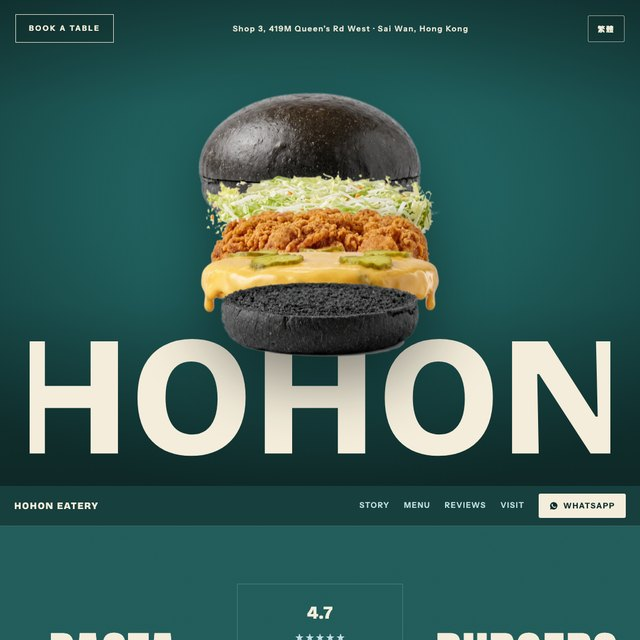
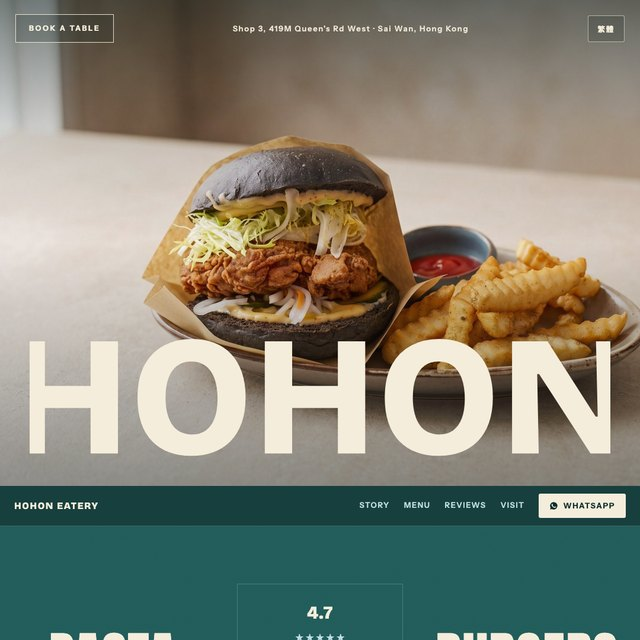
web-design: HoHon tile back to the approved photo hero

diff --git a/web-design/index.html b/web-design/index.html
@@ -146,7 +146,7 @@ footer a:hover{color:var(--fg)}
 <section class="cityblock" id="damascus"><h2 class="cityhead">DAMASCUS<span>30 websites</span></h2><div class="grid"><a class="card" href="https://wissamsader.github.io/damascus/bakdash/" target="_blank" rel="noopener"><span class="inner"><span class="chrome" aria-hidden="true"><i></i><i></i><i></i></span><img loading="lazy" src="shots/damascus-bakdash.jpg?v=2d0e0249" alt="بوظة بكداش website by StudioMorphik"><span class="meta"><b>بوظة بكداش</b><span style="display:flex;align-items:center;gap:9px"><i>Damascus</i><span class="arr">↗</span></span></span></span></a><a class="card" href="https://wissamsader.github.io/damascus/manhal/" target="_blank" rel="noopener"><span class="inner"><span class="chrome" aria-hidden="true"><i></i><i></i><i></i></span><img loading="lazy" src="shots/damascus-manhal.jpg?v=38a5e05b" alt="مخبز ومكتبة المنهل website by StudioMorphik"><span class="meta"><b>مخبز ومكتبة المنهل</b><span style="display:flex;align-items:center;gap:9px"><i>Damascus</i><span class="arr">↗</span></span></span></span></a><a class="card" href="https://wissamsader.github.io/damascus/nawfara/" target="_blank" rel="noopener"><span class="inner"><span class="chrome" aria-hidden="true"><i></i><i></i><i></i></span><img loading="lazy" src="shots/damascus-nawfara.jpg?v=c793c3ab" alt="مقهى النوفرة website by StudioMorphik"><span class="meta"><b>مقهى النوفرة</b><span style="display:flex;align-items:center;gap:9px"><i>Damascus</i><span class="arr">↗</span></span></span></span></a><a class="card" href="https://wissamsader.github.io/damascus/beit-jabri/" target="_blank" rel="noopener"><span class="inner"><span class="chrome" aria-hidden="true"><i></i><i></i><i></i></span><img loading="lazy" src="shots/damascus-beit-jabri.jpg?v=006b5c8e" alt="بيت جبري website by StudioMorphik"><span class="meta"><b>بيت جبري</b><span style="display:flex;align-items:center;gap:9px"><i>Damascus</i><span class="arr">↗</span></span></span></span></a><a class="card" href="https://wissamsader.github.io/damascus/haretna/" target="_blank" rel="noopener"><span class="inner"><span class="chrome" aria-hidden="true"><i></i><i></i><i></i></span><img loading="lazy" src="shots/damascus-haretna.jpg?v=5cccf1c3" alt="حارتنا website by StudioMorphik"><span class="meta"><b>حارتنا</b><span style="display:flex;align-items:center;gap:9px"><i>Damascus</i><span class="arr">↗</span></span></span></span></a><a class="card" href="https://wissamsader.github.io/damascus/qishla/" target="_blank" rel="noopener"><span class="inner"><span class="chrome" aria-hidden="true"><i></i><i></i><i></i></span><img loading="lazy" src="shots/damascus-qishla.jpg?v=542077eb" alt="قهوة القشلة website by StudioMorphik"><span class="meta"><b>قهوة القشلة</b><span style="display:flex;align-items:center;gap:9px"><i>Damascus</i><span class="arr">↗</span></span></span></span></a><a class="card" href="https://wissamsader.github.io/damascus/monalisa/" target="_blank" rel="noopener"><span class="inner"><span class="chrome" aria-hidden="true"><i></i><i></i><i></i></span><img loading="lazy" src="shots/damascus-monalisa.jpg?v=ecf8d70d" alt="موناليزا website by StudioMorphik"><span class="meta"><b>موناليزا</b><span style="display:flex;align-items:center;gap:9px"><i>Damascus</i><span class="arr">↗</span></span></span></span></a><a class="card" href="https://wissamsader.github.io/damascus/selena/" target="_blank" rel="noopener"><span class="inner"><span class="chrome" aria-hidden="true"><i></i><i></i><i></i></span><img loading="lazy" src="shots/damascus-selena.jpg?v=a09521f4" alt="سيلينا website by StudioMorphik"><span class="meta"><b>سيلينا</b><span style="display:flex;align-items:center;gap:9px"><i>Damascus</i><span class="arr">↗</span></span></span></span></a><a class="card" href="https://wissamsader.github.io/damascus/elburj/" target="_blank" rel="noopener"><span class="inner"><span class="chrome" aria-hidden="true"><i></i><i></i><i></i></span><img loading="lazy" src="shots/damascus-elburj.jpg?v=a6dfdcc9" alt="شاورما البرج website by StudioMorphik"><span class="meta"><b>شاورما البرج</b><span style="display:flex;align-items:center;gap:9px"><i>Damascus</i><span class="arr">↗</span></span></span></span></a><a class="card" href="https://wissamsader.github.io/damascus/wissam-conf/" target="_blank" rel="noopener"><span class="inner"><span class="chrome" aria-hidden="true"><i></i><i></i><i></i></span><img loading="lazy" src="shots/damascus-wissam-conf.jpg?v=a529596c" alt="حلويات الوسام website by StudioMorphik"><span class="meta"><b>حلويات الوسام</b><span style="display:flex;align-items:center;gap:9px"><i>Damascus</i><span class="arr">↗</span></span></span></span></a><a class="card" href="https://wissamsader.github.io/damascus/albeik/" target="_blank" rel="noopener"><span class="inner"><span class="chrome" aria-hidden="true"><i></i><i></i><i></i></span><img loading="lazy" src="shots/damascus-albeik.jpg?v=9bad8d22" alt="حلويات البيك website by StudioMorphik"><span class="meta"><b>حلويات البيك</b><span style="display:flex;align-items:center;gap:9px"><i>Damascus</i><span class="arr">↗</span></span></span></span></a><a class="card" href="https://wissamsader.github.io/damascus/shamiah/" target="_blank" rel="noopener"><span class="inner"><span class="chrome" aria-hidden="true"><i></i><i></i><i></i></span><img loading="lazy" src="shots/damascus-shamiah.jpg?v=70ab2098" alt="حلويات الشامية website by StudioMorphik"><span class="meta"><b>حلويات الشامية</b><span style="display:flex;align-items:center;gap:9px"><i>Damascus</i><span class="arr">↗</span></span></span></span></a><a class="card" href="https://wissamsader.github.io/damascus/omaya-ice/" target="_blank" rel="noopener"><span class="inner"><span class="chrome" aria-hidden="true"><i></i><i></i><i></i></span><img loading="lazy" src="shots/damascus-omaya-ice.jpg?v=d784f657" alt="بوظة أمية website by StudioMorphik"><span class="meta"><b>بوظة أمية</b><span style="display:flex;align-items:center;gap:9px"><i>Damascus</i><span class="arr">↗</span></span></span></span></a><a class="card" href="https://wissamsader.github.io/damascus/almafraq/" target="_blank" rel="noopener"><span class="inner"><span class="chrome" aria-hidden="true"><i></i><i></i><i></i></span><img loading="lazy" src="shots/damascus-almafraq.jpg?v=9579b0df" alt="قهوة عالمفرق website by StudioMorphik"><span class="meta"><b>قهوة عالمفرق</b><span style="display:flex;align-items:center;gap:9px"><i>Damascus</i><span class="arr">↗</span></span></span></span></a><a class="card" href="https://wissamsader.github.io/damascus/old-damascus/" target="_blank" rel="noopener"><span class="inner"><span class="chrome" aria-hidden="true"><i></i><i></i><i></i></span><img loading="lazy" src="shots/damascus-old-damascus.jpg?v=69a4221e" alt="سناك دمشق القديمة website by StudioMorphik"><span class="meta"><b>سناك دمشق القديمة</b><span style="display:flex;align-items:center;gap:9px"><i>Damascus</i><span class="arr">↗</span></span></span></span></a><a class="card" href="https://wissamsader.github.io/damascus/baron-hakob/" target="_blank" rel="noopener"><span class="inner"><span class="chrome" aria-hidden="true"><i></i><i></i><i></i></span><img loading="lazy" src="shots/damascus-baron-hakob.jpg?v=c7a28e37" alt="بارون هاكوب website by StudioMorphik"><span class="meta"><b>بارون هاكوب</b><span style="display:flex;align-items:center;gap:9px"><i>Damascus</i><span class="arr">↗</span></span></span></span></a><a class="card" href="https://wissamsader.github.io/damascus/nubar/" target="_blank" rel="noopener"><span class="inner"><span class="chrome" aria-hidden="true"><i></i><i></i><i></i></span><img loading="lazy" src="shots/damascus-nubar.jpg?v=a4ee046f" alt="نوبار أواديس جولفايان website by StudioMorphik"><span class="meta"><b>نوبار أواديس جولفايان</b><span style="display:flex;align-items:center;gap:9px"><i>Damascus</i><span class="arr">↗</span></span></span></span></a><a class="card" href="https://wissamsader.github.io/damascus/neutron/" target="_blank" rel="noopener"><span class="inner"><span class="chrome" aria-hidden="true"><i></i><i></i><i></i></span><img loading="lazy" src="shots/damascus-neutron.jpg?v=b3ea9ac3" alt="نيوترون website by StudioMorphik"><span class="meta"><b>نيوترون</b><span style="display:flex;align-items:center;gap:9px"><i>Damascus</i><span class="arr">↗</span></span></span></span></a><a class="card" href="https://wissamsader.github.io/damascus/oriental/" target="_blank" rel="noopener"><span class="inner"><span class="chrome" aria-hidden="true"><i></i><i></i><i></i></span><img loading="lazy" src="shots/damascus-oriental.jpg?v=66142b13" alt="مطعم الأورينتال website by StudioMorphik"><span class="meta"><b>مطعم الأورينتال</b><span style="display:flex;align-items:center;gap:9px"><i>Damascus</i><span class="arr">↗</span></span></span></span></a><a class="card" href="https://wissamsader.github.io/damascus/amraya/" target="_blank" rel="noopener"><span class="inner"><span class="chrome" aria-hidden="true"><i></i><i></i><i></i></span><img loading="lazy" src="shots/damascus-amraya.jpg?v=cf7142a5" alt="كافيه أمرايا website by StudioMorphik"><span class="meta"><b>كافيه أمرايا</b><span style="display:flex;align-items:center;gap:9px"><i>Damascus</i><span class="arr">↗</span></span></span></span></a><a class="card" href="https://wissamsader.github.io/damascus/warraq-alzaman/" target="_blank" rel="noopener"><span class="inner"><span class="chrome" aria-hidden="true"><i></i><i></i><i></i></span><img loading="lazy" src="shots/damascus-warraq-alzaman.jpg?v=b649af87" alt="وراق الزمن website by StudioMorphik"><span class="meta"><b>وراق الزمن</b><span style="display:flex;align-items:center;gap:9px"><i>Damascus</i><span class="arr">↗</span></span></span></span></a><a class="card" href="https://wissamsader.github.io/damascus/soufaniyeh/" target="_blank" rel="noopener"><span class="inner"><span class="chrome" aria-hidden="true"><i></i><i></i><i></i></span><img loading="lazy" src="shots/damascus-soufaniyeh.jpg?v=d4ebc67d" alt="معجنات الصوفانية website by StudioMorphik"><span class="meta"><b>معجنات الصوفانية</b><span style="display:flex;align-items:center;gap:9px"><i>Damascus</i><span class="arr">↗</span></span></span></span></a><a class="card" href="https://wissamsader.github.io/damascus/salon-alshami/" target="_blank" rel="noopener"><span class="inner"><span class="chrome" aria-hidden="true"><i></i><i></i><i></i></span><img loading="lazy" src="shots/damascus-salon-alshami.jpg?v=bcaa1648" alt="صالون الشامي website by StudioMorphik"><span class="meta"><b>صالون الشامي</b><span style="display:flex;align-items:center;gap:9px"><i>Damascus</i><span class="arr">↗</span></span></span></span></a><a class="card" href="https://wissamsader.github.io/damascus/salaza-dany/" target="_blank" rel="noopener"><span class="inner"><span class="chrome" aria-hidden="true"><i></i><i></i><i></i></span><img loading="lazy" src="shots/damascus-salaza-dany.jpg?v=f39874ec" alt="صالون سالازا - داني عنتر website by StudioMorphik"><span class="meta"><b>صالون سالازا - داني عنتر</b><span style="display:flex;align-items:center;gap:9px"><i>Damascus</i><span class="arr">↗</span></span></span></span></a><a class="card" href="https://wissamsader.github.io/damascus/qissa-dimashqiya/" target="_blank" rel="noopener"><span class="inner"><span class="chrome" aria-hidden="true"><i></i><i></i><i></i></span><img loading="lazy" src="shots/damascus-qissa-dimashqiya.jpg?v=2ffeb2d4" alt="صالون القصة الدمشقية website by StudioMorphik"><span class="meta"><b>صالون القصة الدمشقية</b><span style="display:flex;align-items:center;gap:9px"><i>Damascus</i><span class="arr">↗</span></span></span></span></a><a class="card" href="https://wissamsader.github.io/damascus/hasan-nizam/" target="_blank" rel="noopener"><span class="inner"><span class="chrome" aria-hidden="true"><i></i><i></i><i></i></span><img loading="lazy" src="shots/damascus-hasan-nizam.jpg?v=2530689c" alt="حسن نظام للحلاقة website by StudioMorphik"><span class="meta"><b>حسن نظام للحلاقة</b><span style="display:flex;align-items:center;gap:9px"><i>Damascus</i><span class="arr">↗</span></span></span></span></a><a class="card" href="https://wissamsader.github.io/damascus/famous-saloun/" target="_blank" rel="noopener"><span class="inner"><span class="chrome" aria-hidden="true"><i></i><i></i><i></i></span><img loading="lazy" src="shots/damascus-famous-saloun.jpg?v=bb274908" alt="فيموس صالون website by StudioMorphik"><span class="meta"><b>فيموس صالون</b><span style="display:flex;align-items:center;gap:9px"><i>Damascus</i><span class="arr">↗</span></span></span></span></a><a class="card" href="https://wissamsader.github.io/damascus/joseph-saad/" target="_blank" rel="noopener"><span class="inner"><span class="chrome" aria-hidden="true"><i></i><i></i><i></i></span><img loading="lazy" src="shots/damascus-joseph-saad.jpg?v=6ebe57a7" alt="صالون جوزيف سعد website by StudioMorphik"><span class="meta"><b>صالون جوزيف سعد</b><span style="display:flex;align-items:center;gap:9px"><i>Damascus</i><span class="arr">↗</span></span></span></span></a><a class="card" href="https://wissamsader.github.io/damascus/george-mardini/" target="_blank" rel="noopener"><span class="inner"><span class="chrome" aria-hidden="true"><i></i><i></i><i></i></span><img loading="lazy" src="shots/damascus-george-mardini.jpg?v=d0512581" alt="صالون جورج مارديني website by StudioMorphik"><span class="meta"><b>صالون جورج مارديني</b><span style="display:flex;align-items:center;gap:9px"><i>Damascus</i><span class="arr">↗</span></span></span></span></a><a class="card" href="https://wissamsader.github.io/damascus/othman/" target="_blank" rel="noopener"><span class="inner"><span class="chrome" aria-hidden="true"><i></i><i></i><i></i></span><img loading="lazy" src="shots/damascus-othman.jpg?v=ce987ca6" alt="عثمان باربرز website by StudioMorphik"><span class="meta"><b>عثمان باربرز</b><span style="display:flex;align-items:center;gap:9px"><i>Damascus</i><span class="arr">↗</span></span></span></span></a></div></section>
 <section class="cityblock" id="berlin"><h2 class="cityhead">BERLIN<span>30 websites</span></h2><div class="grid"><a class="card" href="https://wissamsader.github.io/berlin/azzam-restaurant/" target="_blank" rel="noopener"><span class="inner"><span class="chrome" aria-hidden="true"><i></i><i></i><i></i></span><img loading="lazy" src="shots/berlin-azzam-restaurant.jpg?v=28a3b15f" alt="Azzam Restaurant website by StudioMorphik"><span class="meta"><b>Azzam Restaurant</b><span style="display:flex;align-items:center;gap:9px"><i>Berlin</i><span class="arr">↗</span></span></span></span></a><a class="card" href="https://wissamsader.github.io/berlin/sanaa-al-yemen/" target="_blank" rel="noopener"><span class="inner"><span class="chrome" aria-hidden="true"><i></i><i></i><i></i></span><img loading="lazy" src="shots/berlin-sanaa-al-yemen.jpg?v=75495e37" alt="Sana&#x27;a Al Yemen website by StudioMorphik"><span class="meta"><b>Sana&#x27;a Al Yemen</b><span style="display:flex;align-items:center;gap:9px"><i>Berlin</i><span class="arr">↗</span></span></span></span></a><a class="card" href="https://wissamsader.github.io/berlin/al-hanan-falafel/" target="_blank" rel="noopener"><span class="inner"><span class="chrome" aria-hidden="true"><i></i><i></i><i></i></span><img loading="lazy" src="shots/berlin-al-hanan-falafel.jpg?v=07706420" alt="Al Hanan website by StudioMorphik"><span class="meta"><b>Al Hanan</b><span style="display:flex;align-items:center;gap:9px"><i>Berlin</i><span class="arr">↗</span></span></span></span></a><a class="card" href="https://wissamsader.github.io/berlin/shawarma-albaik/" target="_blank" rel="noopener"><span class="inner"><span class="chrome" aria-hidden="true"><i></i><i></i><i></i></span><img loading="lazy" src="shots/berlin-shawarma-albaik.jpg?v=b66bc686" alt="Shawarma Albaik website by StudioMorphik"><span class="meta"><b>Shawarma Albaik</b><span style="display:flex;align-items:center;gap:9px"><i>Berlin</i><span class="arr">↗</span></span></span></span></a><a class="card" href="https://wissamsader.github.io/berlin/falfool/" target="_blank" rel="noopener"><span class="inner"><span class="chrome" aria-hidden="true"><i></i><i></i><i></i></span><img loading="lazy" src="shots/berlin-falfool.jpg?v=4eb229bc" alt="Falfool website by StudioMorphik"><span class="meta"><b>Falfool</b><span style="display:flex;align-items:center;gap:9px"><i>Berlin</i><span class="arr">↗</span></span></span></span></a><a class="card" href="https://wissamsader.github.io/berlin/falafel-jakoub/" target="_blank" rel="noopener"><span class="inner"><span class="chrome" aria-hidden="true"><i></i><i></i><i></i></span><img loading="lazy" src="shots/berlin-falafel-jakoub.jpg?v=27330b30" alt="Falafel Jakoub website by StudioMorphik"><span class="meta"><b>Falafel Jakoub</b><span style="display:flex;align-items:center;gap:9px"><i>Berlin</i><span class="arr">↗</span></span></span></span></a><a class="card" href="https://wissamsader.github.io/berlin/al-karam-grill/" target="_blank" rel="noopener"><span class="inner"><span class="chrome" aria-hidden="true"><i></i><i></i><i></i></span><img loading="lazy" src="shots/berlin-al-karam-grill.jpg?v=538d3556" alt="Al-Karam Grill website by StudioMorphik"><span class="meta"><b>Al-Karam Grill</b><span style="display:flex;align-items:center;gap:9px"><i>Berlin</i><span class="arr">↗</span></span></span></span></a><a class="card" href="https://wissamsader.github.io/berlin/el-daia/" target="_blank" rel="noopener"><span class="inner"><span class="chrome" aria-hidden="true"><i></i><i></i><i></i></span><img loading="lazy" src="shots/berlin-el-daia.jpg?v=80fd0776" alt="El Daia website by StudioMorphik"><span class="meta"><b>El Daia</b><span style="display:flex;align-items:center;gap:9px"><i>Berlin</i><span class="arr">↗</span></span></span></span></a><a class="card" href="https://wissamsader.github.io/berlin/abu-haija-fleischerei/" target="_blank" rel="noopener"><span class="inner"><span class="chrome" aria-hidden="true"><i></i><i></i><i></i></span><img loading="lazy" src="shots/berlin-abu-haija-fleischerei.jpg?v=7fab6d69" alt="Fleischerei Yousef Abu Haija website by StudioMorphik"><span class="meta"><b>Fleischerei Yousef Abu Haija</b><span style="display:flex;align-items:center;gap:9px"><i>Berlin</i><span class="arr">↗</span></span></span></span></a><a class="card" href="https://wissamsader.github.io/berlin/ali-lobany-fleischerei/" target="_blank" rel="noopener"><span class="inner"><span class="chrome" aria-hidden="true"><i></i><i></i><i></i></span><img loading="lazy" src="shots/berlin-ali-lobany-fleischerei.jpg?v=458a65a5" alt="Fleischerei Ali Lobany website by StudioMorphik"><span class="meta"><b>Fleischerei Ali Lobany</b><span style="display:flex;align-items:center;gap:9px"><i>Berlin</i><span class="arr">↗</span></span></span></span></a><a class="card" href="https://wissamsader.github.io/berlin/al-amana-fleischerei/" target="_blank" rel="noopener"><span class="inner"><span class="chrome" aria-hidden="true"><i></i><i></i><i></i></span><img loading="lazy" src="shots/berlin-al-amana-fleischerei.jpg?v=26abd144" alt="Al Amana Fleischerei website by StudioMorphik"><span class="meta"><b>Al Amana Fleischerei</b><span style="display:flex;align-items:center;gap:9px"><i>Berlin</i><span class="arr">↗</span></span></span></span></a><a class="card" href="https://wissamsader.github.io/berlin/malek-al-konafeh/" target="_blank" rel="noopener"><span class="inner"><span class="chrome" aria-hidden="true"><i></i><i></i><i></i></span><img loading="lazy" src="shots/berlin-malek-al-konafeh.jpg?v=120d166a" alt="Malek Al Konafeh website by StudioMorphik"><span class="meta"><b>Malek Al Konafeh</b><span style="display:flex;align-items:center;gap:9px"><i>Berlin</i><span class="arr">↗</span></span></span></span></a><a class="card" href="https://wissamsader.github.io/berlin/habibi-suessigkeiten/" target="_blank" rel="noopener"><span class="inner"><span class="chrome" aria-hidden="true"><i></i><i></i><i></i></span><img loading="lazy" src="shots/berlin-habibi-suessigkeiten.jpg?v=34f58d8d" alt="Habibi Süßigkeiten website by StudioMorphik"><span class="meta"><b>Habibi Süßigkeiten</b><span style="display:flex;align-items:center;gap:9px"><i>Berlin</i><span class="arr">↗</span></span></span></span></a><a class="card" href="https://wissamsader.github.io/berlin/jacks-barber/" target="_blank" rel="noopener"><span class="inner"><span class="chrome" aria-hidden="true"><i></i><i></i><i></i></span><img loading="lazy" src="shots/berlin-jacks-barber.jpg?v=34f3c4ea" alt="Jack&#x27;s Barber Shop website by StudioMorphik"><span class="meta"><b>Jack&#x27;s Barber Shop</b><span style="display:flex;align-items:center;gap:9px"><i>Berlin</i><span class="arr">↗</span></span></span></span></a><a class="card" href="https://wissamsader.github.io/berlin/taktak-barbershop/" target="_blank" rel="noopener"><span class="inner"><span class="chrome" aria-hidden="true"><i></i><i></i><i></i></span><img loading="lazy" src="shots/berlin-taktak-barbershop.jpg?v=1ecef50c" alt="TakTak Barbershop website by StudioMorphik"><span class="meta"><b>TakTak Barbershop</b><span style="display:flex;align-items:center;gap:9px"><i>Berlin</i><span class="arr">↗</span></span></span></span></a><a class="card" href="https://wissamsader.github.io/berlin/azzam-salon/" target="_blank" rel="noopener"><span class="inner"><span class="chrome" aria-hidden="true"><i></i><i></i><i></i></span><img loading="lazy" src="shots/berlin-azzam-salon.jpg?v=5d906cdd" alt="Azzam Salon website by StudioMorphik"><span class="meta"><b>Azzam Salon</b><span style="display:flex;align-items:center;gap:9px"><i>Berlin</i><span class="arr">↗</span></span></span></span></a><a class="card" href="https://wissamsader.github.io/berlin/salon-rotana/" target="_blank" rel="noopener"><span class="inner"><span class="chrome" aria-hidden="true"><i></i><i></i><i></i></span><img loading="lazy" src="shots/berlin-salon-rotana.jpg?v=d6bcc1bc" alt="Salon Rotana website by StudioMorphik"><span class="meta"><b>Salon Rotana</b><span style="display:flex;align-items:center;gap:9px"><i>Berlin</i><span class="arr">↗</span></span></span></span></a><a class="card" href="https://wissamsader.github.io/berlin/juwelier-al-aman/" target="_blank" rel="noopener"><span class="inner"><span class="chrome" aria-hidden="true"><i></i><i></i><i></i></span><img loading="lazy" src="shots/berlin-juwelier-al-aman.jpg?v=d8994daf" alt="Juwelier Al Aman website by StudioMorphik"><span class="meta"><b>Juwelier Al Aman</b><span style="display:flex;align-items:center;gap:9px"><i>Berlin</i><span class="arr">↗</span></span></span></span></a><a class="card" href="https://wissamsader.github.io/berlin/juwelier-al-afrah/" target="_blank" rel="noopener"><span class="inner"><span class="chrome" aria-hidden="true"><i></i><i></i><i></i></span><img loading="lazy" src="shots/berlin-juwelier-al-afrah.jpg?v=5fd5a147" alt="Juwelier Al Afrah website by StudioMorphik"><span class="meta"><b>Juwelier Al Afrah</b><span style="display:flex;align-items:center;gap:9px"><i>Berlin</i><span class="arr">↗</span></span></span></span></a><a class="card" href="https://wissamsader.github.io/berlin/juwelier-al-hanan/" target="_blank" rel="noopener"><span class="inner"><span class="chrome" aria-hidden="true"><i></i><i></i><i></i></span><img loading="lazy" src="shots/berlin-juwelier-al-hanan.jpg?v=c52c3b34" alt="Juwelier Al-Hanan website by StudioMorphik"><span class="meta"><b>Juwelier Al-Hanan</b><span style="display:flex;align-items:center;gap:9px"><i>Berlin</i><span class="arr">↗</span></span></span></span></a><a class="card" href="https://wissamsader.github.io/berlin/juwelier-al-hanan-1/" target="_blank" rel="noopener"><span class="inner"><span class="chrome" aria-hidden="true"><i></i><i></i><i></i></span><img loading="lazy" src="shots/berlin-juwelier-al-hanan-1.jpg?v=8f909c1e" alt="Juwelier Al Hanan 1 website by StudioMorphik"><span class="meta"><b>Juwelier Al Hanan 1</b><span style="display:flex;align-items:center;gap:9px"><i>Berlin</i><span class="arr">↗</span></span></span></span></a><a class="card" href="https://wissamsader.github.io/berlin/juwelier-al-hadi/" target="_blank" rel="noopener"><span class="inner"><span class="chrome" aria-hidden="true"><i></i><i></i><i></i></span><img loading="lazy" src="shots/berlin-juwelier-al-hadi.jpg?v=6896e855" alt="Juwelier Al-Hadi website by StudioMorphik"><span class="meta"><b>Juwelier Al-Hadi</b><span style="display:flex;align-items:center;gap:9px"><i>Berlin</i><span class="arr">↗</span></span></span></span></a><a class="card" href="https://wissamsader.github.io/berlin/queen-brautmoden/" target="_blank" rel="noopener"><span class="inner"><span class="chrome" aria-hidden="true"><i></i><i></i><i></i></span><img loading="lazy" src="shots/berlin-queen-brautmoden.jpg?v=a0385b91" alt="Queen Braut- &amp; Festmoden website by StudioMorphik"><span class="meta"><b>Queen Braut- &amp; Festmoden</b><span style="display:flex;align-items:center;gap:9px"><i>Berlin</i><span class="arr">↗</span></span></span></span></a><a class="card" href="https://wissamsader.github.io/berlin/anaqa-almuhajaba/" target="_blank" rel="noopener"><span class="inner"><span class="chrome" aria-hidden="true"><i></i><i></i><i></i></span><img loading="lazy" src="shots/berlin-anaqa-almuhajaba.jpg?v=4bd74f17" alt="Anaqat Al-Muhajaba website by StudioMorphik"><span class="meta"><b>Anaqat Al-Muhajaba</b><span style="display:flex;align-items:center;gap:9px"><i>Berlin</i><span class="arr">↗</span></span></span></span></a><a class="card" href="https://wissamsader.github.io/berlin/al-madina-markt/" target="_blank" rel="noopener"><span class="inner"><span class="chrome" aria-hidden="true"><i></i><i></i><i></i></span><img loading="lazy" src="shots/berlin-al-madina-markt.jpg?v=8adc8dae" alt="Al-Madina Supermarkt website by StudioMorphik"><span class="meta"><b>Al-Madina Supermarkt</b><span style="display:flex;align-items:center;gap:9px"><i>Berlin</i><span class="arr">↗</span></span></span></span></a><a class="card" href="https://wissamsader.github.io/berlin/alscham-markt/" target="_blank" rel="noopener"><span class="inner"><span class="chrome" aria-hidden="true"><i></i><i></i><i></i></span><img loading="lazy" src="shots/berlin-alscham-markt.jpg?v=0aab8609" alt="Supermarkt Alscham website by StudioMorphik"><span class="meta"><b>Supermarkt Alscham</b><span style="display:flex;align-items:center;gap:9px"><i>Berlin</i><span class="arr">↗</span></span></span></span></a><a class="card" href="https://wissamsader.github.io/berlin/heimatreisen/" target="_blank" rel="noopener"><span class="inner"><span class="chrome" aria-hidden="true"><i></i><i></i><i></i></span><img loading="lazy" src="shots/berlin-heimatreisen.jpg?v=e17a7aab" alt="Heimatreisen website by StudioMorphik"><span class="meta"><b>Heimatreisen</b><span style="display:flex;align-items:center;gap:9px"><i>Berlin</i><span class="arr">↗</span></span></span></span></a><a class="card" href="https://wissamsader.github.io/berlin/amira-shop/" target="_blank" rel="noopener"><span class="inner"><span class="chrome" aria-hidden="true"><i></i><i></i><i></i></span><img loading="lazy" src="shots/berlin-amira-shop.jpg?v=86d2d726" alt="Amira Galerie website by StudioMorphik"><span class="meta"><b>Amira Galerie</b><span style="display:flex;align-items:center;gap:9px"><i>Berlin</i><span class="arr">↗</span></span></span></span></a><a class="card" href="https://wissamsader.github.io/berlin/handyshop-sami/" target="_blank" rel="noopener"><span class="inner"><span class="chrome" aria-hidden="true"><i></i><i></i><i></i></span><img loading="lazy" src="shots/berlin-handyshop-sami.jpg?v=6acacaa8" alt="Handyshop Sami website by StudioMorphik"><span class="meta"><b>Handyshop Sami</b><span style="display:flex;align-items:center;gap:9px"><i>Berlin</i><span class="arr">↗</span></span></span></span></a><a class="card" href="https://wissamsader.github.io/berlin/ishtar-shisha/" target="_blank" rel="noopener"><span class="inner"><span class="chrome" aria-hidden="true"><i></i><i></i><i></i></span><img loading="lazy" src="shots/berlin-ishtar-shisha.jpg?v=341c8c97" alt="Ishtar Shisha-Shop website by StudioMorphik"><span class="meta"><b>Ishtar Shisha-Shop</b><span style="display:flex;align-items:center;gap:9px"><i>Berlin</i><span class="arr">↗</span></span></span></span></a></div></section>
 <section class="cityblock" id="athens"><h2 class="cityhead">ATHENS<span>20 websites</span></h2><div class="grid"><a class="card" href="https://wissamsader.github.io/athens/168-bar/" target="_blank" rel="noopener"><span class="inner"><span class="chrome" aria-hidden="true"><i></i><i></i><i></i></span><img loading="lazy" src="shots/athens-168-bar.jpg?v=0137d68d" alt="168 Bar website by StudioMorphik"><span class="meta"><b>168 Bar</b><span style="display:flex;align-items:center;gap:9px"><i>Athens</i><span class="arr">↗</span></span></span></span></a><a class="card" href="https://wissamsader.github.io/athens/ali-merakli/" target="_blank" rel="noopener"><span class="inner"><span class="chrome" aria-hidden="true"><i></i><i></i><i></i></span><img loading="lazy" src="shots/athens-ali-merakli.jpg?v=41ff4cb6" alt="ΑΛΙ ΜΕΡΑΚΛΗ website by StudioMorphik"><span class="meta"><b>ΑΛΙ ΜΕΡΑΚΛΗ</b><span style="display:flex;align-items:center;gap:9px"><i>Athens</i><span class="arr">↗</span></span></span></span></a><a class="card" href="https://wissamsader.github.io/athens/falafel-al-sharq/" target="_blank" rel="noopener"><span class="inner"><span class="chrome" aria-hidden="true"><i></i><i></i><i></i></span><img loading="lazy" src="shots/athens-falafel-al-sharq.jpg?v=0857984b" alt="Falafel Al Sharq website by StudioMorphik"><span class="meta"><b>Falafel Al Sharq</b><span style="display:flex;align-items:center;gap:9px"><i>Athens</i><span class="arr">↗</span></span></span></span></a><a class="card" href="https://wissamsader.github.io/athens/kokkinos-krinos/" target="_blank" rel="noopener"><span class="inner"><span class="chrome" aria-hidden="true"><i></i><i></i><i></i></span><img loading="lazy" src="shots/athens-kokkinos-krinos.jpg?v=0ce4e964" alt="Κόκκινος Κρίνος website by StudioMorphik"><span class="meta"><b>Κόκκινος Κρίνος</b><span style="display:flex;align-items:center;gap:9px"><i>Athens</i><span class="arr">↗</span></span></span></span></a><a class="card" href="https://wissamsader.github.io/athens/green-kebab/" target="_blank" rel="noopener"><span class="inner"><span class="chrome" aria-hidden="true"><i></i><i></i><i></i></span><img loading="lazy" src="shots/athens-green-kebab.jpg?v=d0a8ab6a" alt="Green Kebab website by StudioMorphik"><span class="meta"><b>Green Kebab</b><span style="display:flex;align-items:center;gap:9px"><i>Athens</i><span class="arr">↗</span></span></span></span></a><a class="card" href="https://wissamsader.github.io/athens/kypselaki/" target="_blank" rel="noopener"><span class="inner"><span class="chrome" aria-hidden="true"><i></i><i></i><i></i></span><img loading="lazy" src="shots/athens-kypselaki.jpg?v=b3cf40ee" alt="Kypselaki website by StudioMorphik"><span class="meta"><b>Kypselaki</b><span style="display:flex;align-items:center;gap:9px"><i>Athens</i><span class="arr">↗</span></span></span></span></a><a class="card" href="https://wissamsader.github.io/athens/zanoubia/" target="_blank" rel="noopener"><span class="inner"><span class="chrome" aria-hidden="true"><i></i><i></i><i></i></span><img loading="lazy" src="shots/athens-zanoubia.jpg?v=7dabdd8a" alt="Ζανούμπια website by StudioMorphik"><span class="meta"><b>Ζανούμπια</b><span style="display:flex;align-items:center;gap:9px"><i>Athens</i><span class="arr">↗</span></span></span></span></a><a class="card" href="https://wissamsader.github.io/athens/gefseis-damaskou/" target="_blank" rel="noopener"><span class="inner"><span class="chrome" aria-hidden="true"><i></i><i></i><i></i></span><img loading="lazy" src="shots/athens-gefseis-damaskou.jpg?v=635c93a1" alt="Γεύσεις της Δαμασκού website by StudioMorphik"><span class="meta"><b>Γεύσεις της Δαμασκού</b><span style="display:flex;align-items:center;gap:9px"><i>Athens</i><span class="arr">↗</span></span></span></span></a><a class="card" href="https://wissamsader.github.io/athens/anteti/" target="_blank" rel="noopener"><span class="inner"><span class="chrome" aria-hidden="true"><i></i><i></i><i></i></span><img loading="lazy" src="shots/athens-anteti.jpg?v=a814878e" alt="ΑΝΤΕΤΙ website by StudioMorphik"><span class="meta"><b>ΑΝΤΕΤΙ</b><span style="display:flex;align-items:center;gap:9px"><i>Athens</i><span class="arr">↗</span></span></span></span></a><a class="card" href="https://wissamsader.github.io/athens/mikio/" target="_blank" rel="noopener"><span class="inner"><span class="chrome" aria-hidden="true"><i></i><i></i><i></i></span><img loading="lazy" src="shots/athens-mikio.jpg?v=4c70e762" alt="Το Μικιό website by StudioMorphik"><span class="meta"><b>Το Μικιό</b><span style="display:flex;align-items:center;gap:9px"><i>Athens</i><span class="arr">↗</span></span></span></span></a><a class="card" href="https://wissamsader.github.io/athens/kulinaristan/" target="_blank" rel="noopener"><span class="inner"><span class="chrome" aria-hidden="true"><i></i><i></i><i></i></span><img loading="lazy" src="shots/athens-kulinaristan.jpg?v=175178aa" alt="KULINARISTAN website by StudioMorphik"><span class="meta"><b>KULINARISTAN</b><span style="display:flex;align-items:center;gap:9px"><i>Athens</i><span class="arr">↗</span></span></span></span></a><a class="card" href="https://wissamsader.github.io/athens/kappari/" target="_blank" rel="noopener"><span class="inner"><span class="chrome" aria-hidden="true"><i></i><i></i><i></i></span><img loading="lazy" src="shots/athens-kappari.jpg?v=19ef660d" alt="Κάππαρη website by StudioMorphik"><span class="meta"><b>Κάππαρη</b><span style="display:flex;align-items:center;gap:9px"><i>Athens</i><span class="arr">↗</span></span></span></span></a><a class="card" href="https://wissamsader.github.io/athens/rantevou/" target="_blank" rel="noopener"><span class="inner"><span class="chrome" aria-hidden="true"><i></i><i></i><i></i></span><img loading="lazy" src="shots/athens-rantevou.jpg?v=ca7a8bda" alt="Ραντεβού website by StudioMorphik"><span class="meta"><b>Ραντεβού</b><span style="display:flex;align-items:center;gap:9px"><i>Athens</i><span class="arr">↗</span></span></span></span></a><a class="card" href="https://wissamsader.github.io/athens/thang-long/" target="_blank" rel="noopener"><span class="inner"><span class="chrome" aria-hidden="true"><i></i><i></i><i></i></span><img loading="lazy" src="shots/athens-thang-long.jpg?v=aceb610d" alt="Thang Long website by StudioMorphik"><span class="meta"><b>Thang Long</b><span style="display:flex;align-items:center;gap:9px"><i>Athens</i><span class="arr">↗</span></span></span></span></a><a class="card" href="https://wissamsader.github.io/athens/lushnu/" target="_blank" rel="noopener"><span class="inner"><span class="chrome" aria-hidden="true"><i></i><i></i><i></i></span><img loading="lazy" src="shots/athens-lushnu.jpg?v=873f9860" alt="LUSHNU website by StudioMorphik"><span class="meta"><b>LUSHNU</b><span style="display:flex;align-items:center;gap:9px"><i>Athens</i><span class="arr">↗</span></span></span></span></a><a class="card" href="https://wissamsader.github.io/athens/marili/" target="_blank" rel="noopener"><span class="inner"><span class="chrome" aria-hidden="true"><i></i><i></i><i></i></span><img loading="lazy" src="shots/athens-marili.jpg?v=fb27ef59" alt="MARILI website by StudioMorphik"><span class="meta"><b>MARILI</b><span style="display:flex;align-items:center;gap:9px"><i>Athens</i><span class="arr">↗</span></span></span></span></a><a class="card" href="https://wissamsader.github.io/athens/sara/" target="_blank" rel="noopener"><span class="inner"><span class="chrome" aria-hidden="true"><i></i><i></i><i></i></span><img loading="lazy" src="shots/athens-sara.jpg?v=58e798eb" alt="ΣΑΡΑ website by StudioMorphik"><span class="meta"><b>ΣΑΡΑ</b><span style="display:flex;align-items:center;gap:9px"><i>Athens</i><span class="arr">↗</span></span></span></span></a><a class="card" href="https://wissamsader.github.io/athens/mykinon-gonia/" target="_blank" rel="noopener"><span class="inner"><span class="chrome" aria-hidden="true"><i></i><i></i><i></i></span><img loading="lazy" src="shots/athens-mykinon-gonia.jpg?v=18d7163c" alt="Μυκηνών Γωνία website by StudioMorphik"><span class="meta"><b>Μυκηνών Γωνία</b><span style="display:flex;align-items:center;gap:9px"><i>Athens</i><span class="arr">↗</span></span></span></span></a><a class="card" href="https://wissamsader.github.io/athens/valitsa/" target="_blank" rel="noopener"><span class="inner"><span class="chrome" aria-hidden="true"><i></i><i></i><i></i></span><img loading="lazy" src="shots/athens-valitsa.jpg?v=7b318912" alt="Βαλίτσα website by StudioMorphik"><span class="meta"><b>Βαλίτσα</b><span style="display:flex;align-items:center;gap:9px"><i>Athens</i><span class="arr">↗</span></span></span></span></a><a class="card" href="https://wissamsader.github.io/athens/typografos/" target="_blank" rel="noopener"><span class="inner"><span class="chrome" aria-hidden="true"><i></i><i></i><i></i></span><img loading="lazy" src="shots/athens-typografos.jpg?v=3d7afb32" alt="Ο Τυπογράφος website by StudioMorphik"><span class="meta"><b>Ο Τυπογράφος</b><span style="display:flex;align-items:center;gap:9px"><i>Athens</i><span class="arr">↗</span></span></span></span></a></div></section>
-<section class="cityblock" id="hong-kong"><h2 class="cityhead">HONG KONG<span>5 websites</span></h2><div class="grid"><a class="card" href="https://wissamsader.github.io/hongkong/nojo-ramen/" target="_blank" rel="noopener"><span class="inner"><span class="chrome" aria-hidden="true"><i></i><i></i><i></i></span><img loading="lazy" src="shots/hongkong-nojo-ramen.jpg?v=80430fea" alt="NOJO Ramen x Izakaya website by StudioMorphik"><span class="meta"><b>NOJO Ramen x Izakaya</b><span style="display:flex;align-items:center;gap:9px"><i>Hong Kong</i><span class="arr">↗</span></span></span></span></a><a class="card" href="https://wissamsader.github.io/hongkong/a-lux/" target="_blank" rel="noopener"><span class="inner"><span class="chrome" aria-hidden="true"><i></i><i></i><i></i></span><img loading="lazy" src="shots/hongkong-a-lux.jpg?v=78594e9a" alt="A Lux website by StudioMorphik"><span class="meta"><b>A Lux</b><span style="display:flex;align-items:center;gap:9px"><i>Hong Kong</i><span class="arr">↗</span></span></span></span></a><a class="card" href="https://wissamsader.github.io/hongkong/corks-wine-bar/" target="_blank" rel="noopener"><span class="inner"><span class="chrome" aria-hidden="true"><i></i><i></i><i></i></span><img loading="lazy" src="shots/hongkong-corks-wine-bar.jpg?v=b6fc02a6" alt="CORKS Wine &amp; Bar website by StudioMorphik"><span class="meta"><b>CORKS Wine &amp; Bar</b><span style="display:flex;align-items:center;gap:9px"><i>Hong Kong</i><span class="arr">↗</span></span></span></span></a><a class="card" href="https://wissamsader.github.io/hongkong/kuki-izakaya/" target="_blank" rel="noopener"><span class="inner"><span class="chrome" aria-hidden="true"><i></i><i></i><i></i></span><img loading="lazy" src="shots/hongkong-kuki-izakaya.jpg?v=db144d58" alt="Kuki Izakaya website by StudioMorphik"><span class="meta"><b>Kuki Izakaya</b><span style="display:flex;align-items:center;gap:9px"><i>Hong Kong</i><span class="arr">↗</span></span></span></span></a><a class="card" href="https://wissamsader.github.io/hongkong/hohon-eatery/" target="_blank" rel="noopener"><span class="inner"><span class="chrome" aria-hidden="true"><i></i><i></i><i></i></span><img loading="lazy" src="shots/hongkong-hohon-eatery.jpg?v=ff7d418a" alt="HoHon Eatery website by StudioMorphik"><span class="meta"><b>HoHon Eatery</b><span style="display:flex;align-items:center;gap:9px"><i>Hong Kong</i><span class="arr">↗</span></span></span></span></a></div></section>
+<section class="cityblock" id="hong-kong"><h2 class="cityhead">HONG KONG<span>5 websites</span></h2><div class="grid"><a class="card" href="https://wissamsader.github.io/hongkong/nojo-ramen/" target="_blank" rel="noopener"><span class="inner"><span class="chrome" aria-hidden="true"><i></i><i></i><i></i></span><img loading="lazy" src="shots/hongkong-nojo-ramen.jpg?v=80430fea" alt="NOJO Ramen x Izakaya website by StudioMorphik"><span class="meta"><b>NOJO Ramen x Izakaya</b><span style="display:flex;align-items:center;gap:9px"><i>Hong Kong</i><span class="arr">↗</span></span></span></span></a><a class="card" href="https://wissamsader.github.io/hongkong/a-lux/" target="_blank" rel="noopener"><span class="inner"><span class="chrome" aria-hidden="true"><i></i><i></i><i></i></span><img loading="lazy" src="shots/hongkong-a-lux.jpg?v=78594e9a" alt="A Lux website by StudioMorphik"><span class="meta"><b>A Lux</b><span style="display:flex;align-items:center;gap:9px"><i>Hong Kong</i><span class="arr">↗</span></span></span></span></a><a class="card" href="https://wissamsader.github.io/hongkong/corks-wine-bar/" target="_blank" rel="noopener"><span class="inner"><span class="chrome" aria-hidden="true"><i></i><i></i><i></i></span><img loading="lazy" src="shots/hongkong-corks-wine-bar.jpg?v=b6fc02a6" alt="CORKS Wine &amp; Bar website by StudioMorphik"><span class="meta"><b>CORKS Wine &amp; Bar</b><span style="display:flex;align-items:center;gap:9px"><i>Hong Kong</i><span class="arr">↗</span></span></span></span></a><a class="card" href="https://wissamsader.github.io/hongkong/kuki-izakaya/" target="_blank" rel="noopener"><span class="inner"><span class="chrome" aria-hidden="true"><i></i><i></i><i></i></span><img loading="lazy" src="shots/hongkong-kuki-izakaya.jpg?v=db144d58" alt="Kuki Izakaya website by StudioMorphik"><span class="meta"><b>Kuki Izakaya</b><span style="display:flex;align-items:center;gap:9px"><i>Hong Kong</i><span class="arr">↗</span></span></span></span></a><a class="card" href="https://wissamsader.github.io/hongkong/hohon-eatery/" target="_blank" rel="noopener"><span class="inner"><span class="chrome" aria-hidden="true"><i></i><i></i><i></i></span><img loading="lazy" src="shots/hongkong-hohon-eatery.jpg?v=d0fa60ba" alt="HoHon Eatery website by StudioMorphik"><span class="meta"><b>HoHon Eatery</b><span style="display:flex;align-items:center;gap:9px"><i>Hong Kong</i><span class="arr">↗</span></span></span></span></a></div></section>
 <section class="cityblock" id="melbourne"><h2 class="cityhead">MELBOURNE<span>5 websites</span></h2><div class="grid"><a class="card" href="https://wissamsader.github.io/melbourne/commune/" target="_blank" rel="noopener"><span class="inner"><span class="chrome" aria-hidden="true"><i></i><i></i><i></i></span><img loading="lazy" src="shots/melbourne-commune.jpg?v=5e680785" alt="Commune website by StudioMorphik"><span class="meta"><b>Commune</b><span style="display:flex;align-items:center;gap:9px"><i>Melbourne</i><span class="arr">↗</span></span></span></span></a><a class="card" href="https://wissamsader.github.io/melbourne/little-bridge/" target="_blank" rel="noopener"><span class="inner"><span class="chrome" aria-hidden="true"><i></i><i></i><i></i></span><img loading="lazy" src="shots/melbourne-little-bridge.jpg?v=fa6eb0d0" alt="Little Bridge Cafe website by StudioMorphik"><span class="meta"><b>Little Bridge Cafe</b><span style="display:flex;align-items:center;gap:9px"><i>Melbourne</i><span class="arr">↗</span></span></span></span></a><a class="card" href="https://wissamsader.github.io/melbourne/2t-cafe/" target="_blank" rel="noopener"><span class="inner"><span class="chrome" aria-hidden="true"><i></i><i></i><i></i></span><img loading="lazy" src="shots/melbourne-2t-cafe.jpg?v=36582faf" alt="2T Cafe website by StudioMorphik"><span class="meta"><b>2T Cafe</b><span style="display:flex;align-items:center;gap:9px"><i>Melbourne</i><span class="arr">↗</span></span></span></span></a><a class="card" href="https://wissamsader.github.io/melbourne/blonde/" target="_blank" rel="noopener"><span class="inner"><span class="chrome" aria-hidden="true"><i></i><i></i><i></i></span><img loading="lazy" src="shots/melbourne-blonde.jpg?v=ba8c2e18" alt="Blonde Food and Drink website by StudioMorphik"><span class="meta"><b>Blonde Food and Drink</b><span style="display:flex;align-items:center;gap:9px"><i>Melbourne</i><span class="arr">↗</span></span></span></span></a><a class="card" href="https://wissamsader.github.io/melbourne/heart-coffee/" target="_blank" rel="noopener"><span class="inner"><span class="chrome" aria-hidden="true"><i></i><i></i><i></i></span><img loading="lazy" src="shots/melbourne-heart-coffee.jpg?v=f39f8662" alt="Heart Coffee website by StudioMorphik"><span class="meta"><b>Heart Coffee</b><span style="display:flex;align-items:center;gap:9px"><i>Melbourne</i><span class="arr">↗</span></span></span></span></a></div></section>
 </div></section>
 
